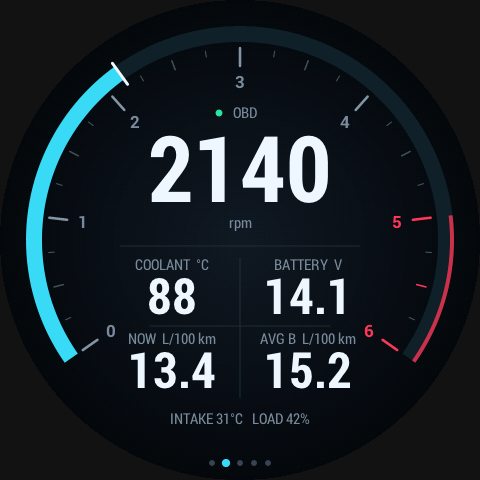
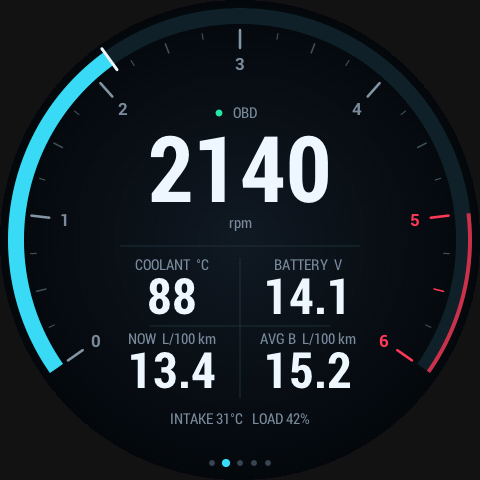
Speed and rev dials out to the edge of the screen
The page dots no longer sit on the right edge and the edge ring is gone, so
the gauge bands move out 18 px (to r 232), with their ticks and numbers tied
to the band; the middle gets the room.

diff --git a/src/ui.cpp b/src/ui.cpp
@@ -257,7 +257,8 @@ static void buildPlain() {
 // top to 200 lower right), digital speed above the centre, odometer in a box at the bottom.
 static constexpr float SP_A0 = -128, SP_A1 = 128;
 static constexpr float SP_MAX = 200;                          // km/h full scale
-static constexpr float SP_R0 = 196, SP_R1 = 214;              // speed band (inside the page dots)
+static constexpr float SP_R0 = 214, SP_R1 = 232;              // speed band, out near the edge
+static constexpr float SP_TICK = SP_R0 - 6;                   // outer end of the ticks
 static constexpr float SP_LABEL_GAP = 9;              // major tick end to label box
 static constexpr float SP_STATUS_Y = 132, SP_SPEED_Y = 250, SP_UNIT_Y = 276;
 static constexpr float SP_SEL_Y = 324;
@@ -270,16 +271,16 @@ static void buildSpeed() {
   gfx.setTarget(bgSpeed);
   drawBgBase();
   gfx.arc(CX, CY, SP_R0, SP_R1, SP_A0, SP_A1, Paint(0x17212C));
-  gfx.arc(CX, CY, SP_R1 + 6, SP_R1 + 8, SP_A0, SP_A1, Paint(0x1C2733));
+  gfx.arc(CX, CY, SP_R1 + 3, SP_R1 + 5, SP_A0, SP_A1, Paint(0x1C2733));
   for (int v = 0; v <= (int)SP_MAX; v += 5) {
     const bool major = v % 20 == 0, mid = v % 10 == 0;
-    if (!mid) { radialLine(184, 190, spDeg(v), 1.2f, Paint(TICK2)); continue; }
-    radialLine(major ? 170 : 179, 190, spDeg(v), major ? 2.8f : 1.6f, Paint(major ? TICK : TICK2));
+    if (!mid) { radialLine(SP_TICK - 6, SP_TICK, spDeg(v), 1.2f, Paint(TICK2)); continue; }
+    radialLine(SP_TICK - (major ? 20 : 11), SP_TICK, spDeg(v), major ? 2.8f : 1.6f, Paint(major ? TICK : TICK2));
     if (major) {
       // same gap from every tick to its label's box, whatever the label's width
       char b[4]; snprintf(b, sizeof b, "%d", v);
       const float a = deg2rad(spDeg(v)), hw = gfx.textWidth(font_small, b) / 2, hh = 6.5f;
-      const float r = 170 - SP_LABEL_GAP - (fabsf(sinf(a)) * hw + fabsf(cosf(a)) * hh);
+      const float r = SP_TICK - 20 - SP_LABEL_GAP - (fabsf(sinf(a)) * hw + fabsf(cosf(a)) * hh);
       float x, y; polar(r, spDeg(v), x, y);
       gfx.text(font_small, b, x, y + hh, v == 0 ? DIM : 0xB7C3CF, 0);
     }
@@ -298,7 +299,8 @@ static void buildSpeed() {
 
 // engine screen layout: rev gauge from 0 (lower left) over the top to full scale (lower right)
 static constexpr float EN_A0 = -125, EN_A1 = 125;
-static constexpr float EN_R0 = 198, EN_R1 = 214;           // gauge band (inside the page dots)
+static constexpr float EN_R0 = 216, EN_R1 = 232;           // gauge band, out near the edge
+static constexpr float EN_TICK = EN_R0 - 6;                // outer end of the ticks
 static constexpr float EN_STATUS_Y = 118, EN_RPM_Y = 202, EN_RPM_UNIT_Y = 228;
 static constexpr float EN_COL_L = 172, EN_COL_R = 308;
 static constexpr float EN_ROW1 = 270, EN_ROW2 = 344;        // label baselines (value 44 px lower)
@@ -312,11 +314,11 @@ static void buildEngine() {
   gfx.arc(CX, CY, EN_R1 - 4, EN_R1, rpmDeg(cfg.redlineRpm), EN_A1, Paint(RED, 0.8f));
   for (int r = 0; r <= ENGINE_GAUGE_RPM; r += 250) {
     bool major = r % 1000 == 0, mid = r % 500 == 0;
-    if (!mid) { radialLine(186, 192, rpmDeg(r), 1.2f, Paint(TICK2)); continue; }
+    if (!mid) { radialLine(EN_TICK - 6, EN_TICK, rpmDeg(r), 1.2f, Paint(TICK2)); continue; }
     uint32_t c = r >= cfg.redlineRpm ? RED : (major ? TICK : TICK2);
-    radialLine(major ? 174 : 182, 192, rpmDeg(r), major ? 2.6f : 1.6f, Paint(c));
+    radialLine(EN_TICK - (major ? 18 : 10), EN_TICK, rpmDeg(r), major ? 2.6f : 1.6f, Paint(c));
     if (major) {
-      float x, y; polar(158, rpmDeg(r), x, y);
+      float x, y; polar(EN_TICK - 34, rpmDeg(r), x, y);
       char b[4]; snprintf(b, sizeof b, "%d", r / 1000);
       gfx.text(font_small, b, x, y + 6, r >= cfg.redlineRpm ? RED : DIM, 0);
     }
